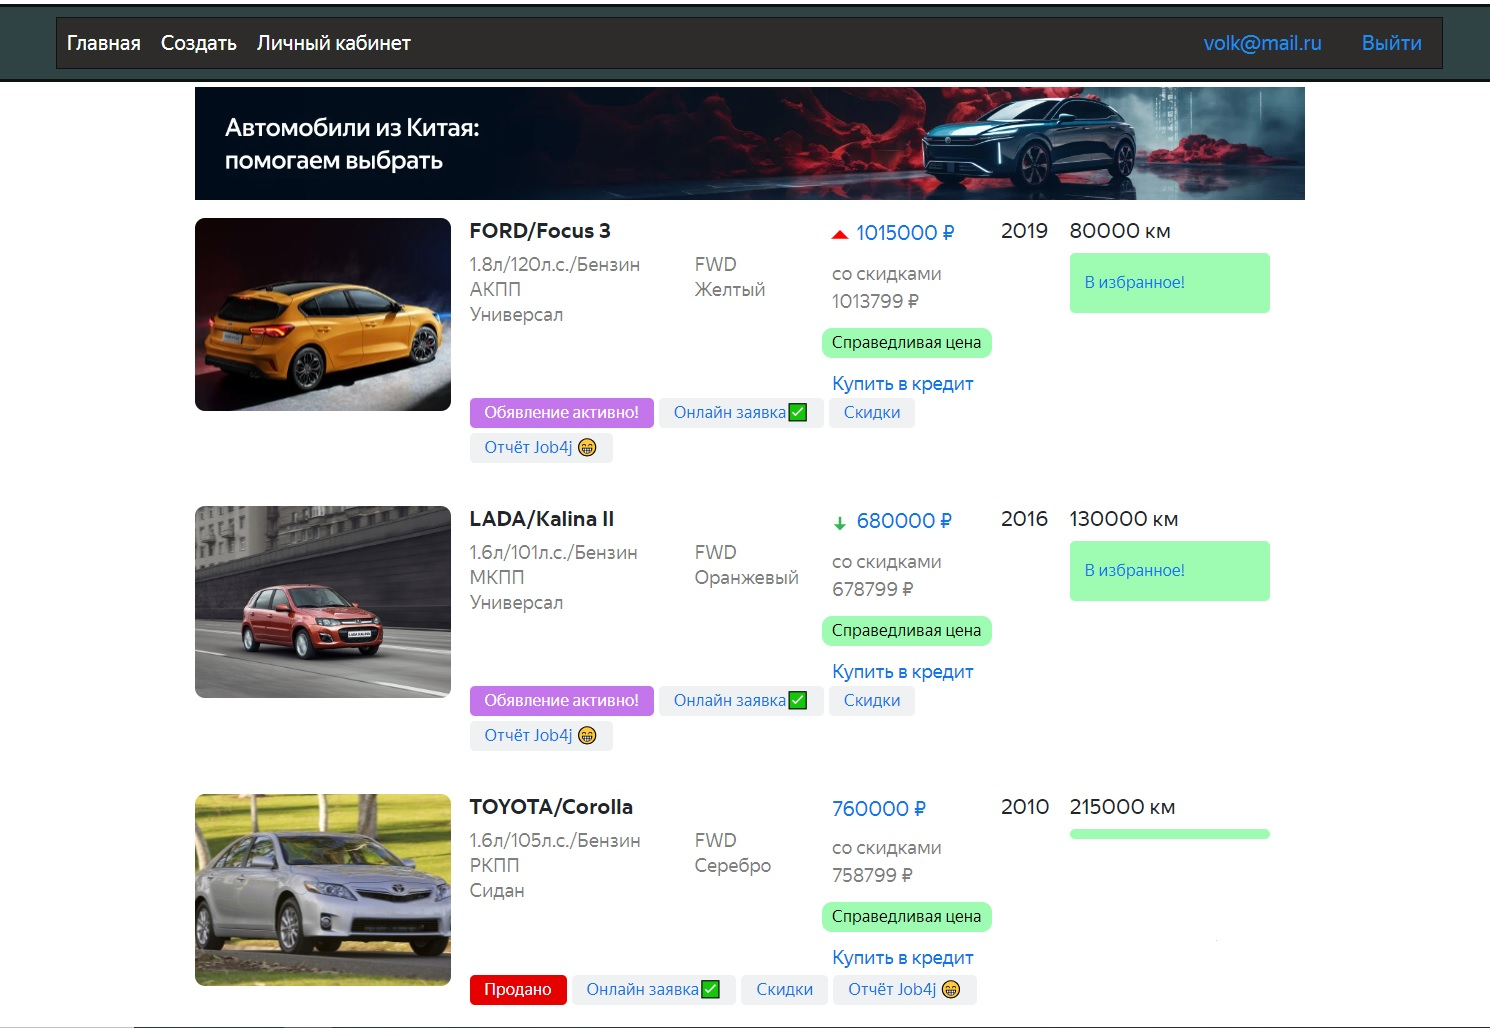
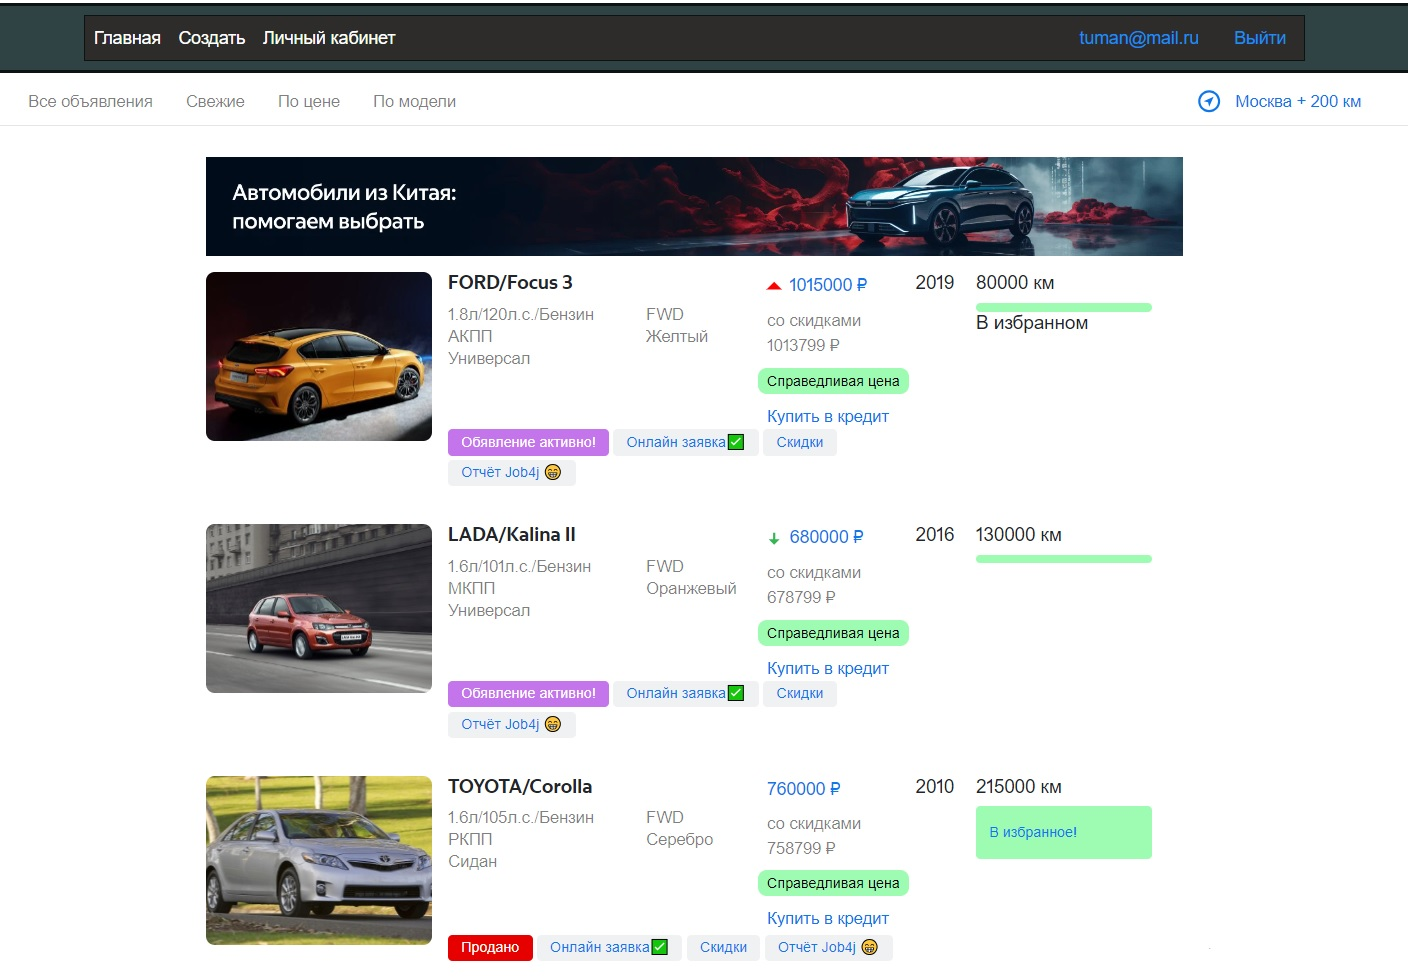
add car model to DB

diff --git a/src/main/resources/templates/index.html b/src/main/resources/templates/index.html
@@ -5,8 +5,7 @@
     <meta name="viewport" content="width=device-width, initial-scale=1">
     <link th:href="@{/css/bootstrap.css}" rel="stylesheet">
     <link th:href="@{/css/job4j.css}" rel="stylesheet">
-    <link th:href="@{/css/myCSS.css}" rel="stylesheet">
-    <script th:src="@{/js/myJS.js}"></script>
+    <script src="https://cdn.jsdelivr.net/npm/bootstrap@5.3.2/dist/js/bootstrap.bundle.min.js"></script>
     <script src="https://cdn.jsdelivr.net/npm/@popperjs/core@2.11.6/dist/umd/popper.min.js"
             integrity="sha384-oBqDVmMz9ATKxIep9tiCxS/Z9fNfEXiDAYTujMAeBAsjFuCZSmKbSSUnQlmh/jp3"
             crossorigin="anonymous"></script>
@@ -34,18 +33,31 @@
                                 <a class="Link ServiceNavigation__link ServiceNavigation__link_name_catalog"
                                    th:href="@{/index}">Все объявления</a>
                                 <a class="Link ServiceNavigation__link ServiceNavigation__link_name_catalog"
-                                   th:href="@{/index/ByToday}">Свежие</a>
-                                <a class="Link ServiceNavigation__link ServiceNavigation__link_name_reviews"
+                                   th:href="@{/index/byToday}">Свежие</a>
+                                <a class="Link ServiceNavigation__link"
                                    href="#" onclick="openForm()">По цене</a>
-                                <div class="form-popup" id="myForm">
-                                    <form class="form-container" th:action="@{/index/price}" method="get">
-                                        <input type="text" placeholder="Не дороже" id="price" name="price" required>
-                                        <button type="submit" class="btn">Выбрать</button>
-                                        <button type="button" class="btn cancel" onclick="closeForm()">Закрыть</button>
-                                    </form>
+                                <a class="Link ServiceNavigation__link" data-bs-toggle="modal" data-bs-target="#myModal"
+                                   href="#">По модели</a>
+                                <div class="modal fade" id="myModal">
+                                    <div class="modal-dialog">
+                                        <div class="modal-content">
+                                            <div class="modal-header">
+                                                <h4 class="modal-title">Выберете модель</h4>
+                                                <button type="button" class="btn-close" data-bs-dismiss="modal"></button>
+                                            </div>
+                                            <div class="modal-body">
+                                                <form class="form-container" th:action="@{/index/model}" method="get">
+                                                    <select type="text" class="form-control" id="tm" name="carModel">
+                                                        <option th:each="model : ${models}" th:value="${model.name}"
+                                                                th:text="${model.name}"></option>
+                                                    </select>
+                                                    <button type="button" class="btn btn-danger" data-bs-dismiss="modal">Close</button>
+                                                    <button type="submit" class="btn btn-primary" data-bs-dismiss="modal">Применить</button>
+                                                </form>
+                                            </div>
+                                        </div>
+                                    </div>
                                 </div>
-                                <a class="Link ServiceNavigation__link ServiceNavigation__link_name_logbook"
-                                   th:href="@{/index/3}">По модели</a>
                             </div>
                         </div>
                         <div class="TopNavigationIndicators TopNavigation__right">

diff --git a/src/main/resources/templates/blocks/modal.html b/src/main/resources/templates/blocks/modal.html
@@ -1,0 +1,29 @@
+<div class="modal fade" id="myModal">
+    <div class="modal-dialog">
+        <div class="modal-content">
+            <!-- Modal Header -->
+            <div class="modal-header">
+                <h4 class="modal-title">Выберете модель</h4>
+                <button type="button" class="btn-close" data-bs-dismiss="modal"></button>
+            </div>
+            <div class="modal-body">
+                <form class="form-container" th:action="@{/index/model}" method="get">
+                    <select type="text" class="form-control" id="tm" name="model">
+                        <option th:each="model : ${models}" th:value="${model.name}"
+                                th:text="${model.name}"></option>
+                    </select>
+                    <button type="button" class="btn btn-danger" data-bs-dismiss="modal">Close</button>
+                    <button type="submit" class="btn btn-primary" data-bs-dismiss="modal">Применить</button>
+                </form>
+            </div>
+        </div>
+    </div>
+</div>
+
+<div class="form-popup" id="myForm">
+    <form class="form-container" th:action="@{/index/price}" method="get">
+        <input type="text" placeholder="Не дороже" id="price" name="price" required>
+        <button type="submit" class="btn">Выбрать</button>
+        <button type="button" class="btn cancel" onclick="closeForm()">Закрыть</button>
+    </form>
+</div>

diff --git a/src/main/resources/templates/post/create.html b/src/main/resources/templates/post/create.html
@@ -23,11 +23,25 @@
         </div>
         <div class="mb-3">
             <label for="title" class="form-label"><b>Марка <span style="color: red;">*</span></b></label>
-            <input type="text" class="form-control" id="title" name="car.brand" placeholder="укажите марку" required>
+            <div class="row">
+                <div class="col">
+                    <input type="text" class="form-control" id="title" name="car.brand" placeholder="укажите марку"
+                           required>
+                </div>
+                <div class="col"></div>
+                <div class="col"></div>
+            </div>
         </div>
         <div class="mb-3">
             <label for="model" class="form-label"><b>Модель <span style="color: red;">*</span></b></label>
-            <input type="text" class="form-control" id="model" name="car.model" placeholder="укажите модель" required>
+            <div class="row">
+                <div class="col">
+                    <input type="text" class="form-control" id="model" name="car.model" placeholder="укажите модель"
+                           required>
+                </div>
+                <div class="col"></div>
+                <div class="col"></div>
+            </div>
         </div>
         <div class="mb-3">
             <label for="tm" class="form-label"><b>Трансмиссия</b></label>

diff --git a/src/main/resources/templates/post/one.html b/src/main/resources/templates/post/one.html
@@ -27,8 +27,8 @@
                  style="display:none"></div>
             <header class="Header Header_theme_default" th:insert="blocks/header :: header"></header>
             <div class="container-fluid">
-                <H3 th:text="${post.car.brand} + ' ' + ${post.car.model} + ' - ' + ${post.car.age} + ' года'"></H3>
-                <div class="ListingItem__main">
+                <H3 th:text="${post.car.brand} + ' ' + ${post.car.model} + ' - ' + ${post.car.age} + ' года'" style="text-align: center"></H3>
+                <div class="ListingItem__main_one">
                     <div class="ListingItem__thumb"><a
                             class="Link OfferThumb OfferThumb_radius_r8"
                             th:href="@{/one/{postId}(postId=${post.id})}"
@@ -129,7 +129,7 @@
                         </div>
                     </div>
                 </div>
-                <div>
+                <div style="width: 65%; margin: auto">
                     <div class="ListingItem__kmAge" th:text="'Описание: ' + ${post.description}"></div>
                 </div>
                 <div th:if="${post.user.equals(user)}" class="col-777">

diff --git a/src/main/resources/static/js/myJS.js b/src/main/resources/static/js/myJS.js
@@ -5,3 +5,11 @@ function openForm() {
 function closeForm() {
     document.getElementById("myForm").style.display = "none";
 }
+
+function openFormModel() {
+    document.getElementById("formModel").style.display = "block";
+}
+
+function closeFormModel() {
+    document.getElementById("formModel").style.display = "none";
+}

diff --git a/src/main/resources/static/css/myCSS.css b/src/main/resources/static/css/myCSS.css
@@ -23,7 +23,10 @@ body {font-family: Arial, Helvetica, sans-serif;}
     right: 15px;
     border: 3px solid #f1f1f1;
     z-index: 9;
+}
 
+.form-popup-model {
+    display: none;
 }
 
 .form-container {

diff --git a/src/main/resources/static/css/job4j.css b/src/main/resources/static/css/job4j.css
@@ -19429,6 +19429,11 @@ body {
     display: flex
 }
 
+.ListingItem__main_one {
+    display: flex;
+    justify-content: center
+}
+
 .ListingItem_hidden {
     cursor: default
 }

diff --git a/src/main/java/ru/job4j/cars/controller/IndexController.java b/src/main/java/ru/job4j/cars/controller/IndexController.java
@@ -3,51 +3,77 @@ package ru.job4j.cars.controller;
 import org.springframework.stereotype.Controller;
 import org.springframework.ui.Model;
 import org.springframework.web.bind.annotation.*;
+import ru.job4j.cars.model.CarModel;
 import ru.job4j.cars.model.Post;
 import ru.job4j.cars.model.User;
+import ru.job4j.cars.repository.CarModelRepository;
 import ru.job4j.cars.repository.PostRepository;
 import ru.job4j.cars.repository.UserRepository;
 import ru.job4j.cars.service.PostService;
 
 import java.util.List;
+import java.util.function.Consumer;
+import java.util.function.Supplier;
 
 @Controller
 @RequestMapping("/index")
 public class IndexController {
     private final PostRepository postRepository;
     private final UserRepository userRepository;
-    private final PostService postService;
+    private final CarModelRepository carModelRepository;
 
-    public IndexController(PostRepository postRepository, UserRepository userRepository, PostService postService) {
+    public IndexController(PostRepository postRepository, UserRepository userRepository,
+                           CarModelRepository carModelRepository) {
         this.postRepository = postRepository;
         this.userRepository = userRepository;
-        this.postService = postService;
+        this.carModelRepository = carModelRepository;
     }
 
     @GetMapping
     public String getIndexPage(Model model, @SessionAttribute User user) {
         User thisUser = userRepository.findById(user.getId()).get();
         List<Post> postList = postRepository.findAll();
+        List<CarModel> modelsList = carModelRepository.findAllCarModel();
         model.addAttribute("thisUser", thisUser);
         model.addAttribute("posts", postList);
+        model.addAttribute("models", modelsList);
         return "index";
     }
 
     @GetMapping("/price")
-    public String sortToPrice(Model model, @SessionAttribute User user, @RequestParam String price) {
-        User thisUser = userRepository.findById(user.getId()).get();
-        List<Post> postList = postRepository.findByMaxPrice(Integer.parseInt(price));
-        model.addAttribute("thisUser", thisUser);
-        model.addAttribute("posts", postList);
-        return "index";
+    public void sortToPrice(@SessionAttribute User user, @RequestParam String price) {
+        sortListCars(() -> postRepository.findByMaxPrice(Integer.parseInt(price)), user);
     }
 
-    @GetMapping("/ByToday")
+    @GetMapping("/byToday")
     public String sortByToday(Model model, @SessionAttribute User user) {
         User thisUser = userRepository.findById(user.getId()).get();
         List<Post> postList = postRepository.findByToday();
+        List<CarModel> modelsList = carModelRepository.findAllCarModel();
         model.addAttribute("thisUser", thisUser);
         model.addAttribute("posts", postList);
+        model.addAttribute("models", modelsList);
+        return "index";
+    }
+
+    @GetMapping("/model")
+    public String sortByModel(Model model, @SessionAttribute User user, @RequestParam String carModel) {
+        User thisUser = userRepository.findById(user.getId()).get();
+        List<Post> postList = postRepository.findByModel(carModel);
+        List<CarModel> modelsList = carModelRepository.findAllCarModel();
+        model.addAttribute("thisUser", thisUser);
+        model.addAttribute("posts", postList);
+        model.addAttribute("models", modelsList);
+        return "index";
+    }
+
+    private String sortListCars(Supplier<List<Post>> posts, User user) {
+        Model model = null;
+        User thisUser = userRepository.findById(user.getId()).get();
+        List<CarModel> modelsList = carModelRepository.findAllCarModel();
+        model.addAttribute("thisUser", thisUser);
+        model.addAttribute("posts", posts);
+        model.addAttribute("models", modelsList);
         return "index";
     }
 }

diff --git a/src/main/java/ru/job4j/cars/repository/CarModelRepository.java b/src/main/java/ru/job4j/cars/repository/CarModelRepository.java
@@ -1,0 +1,21 @@
+package ru.job4j.cars.repository;
+
+import org.springframework.stereotype.Repository;
+import ru.job4j.cars.model.CarModel;
+
+import java.util.List;
+
+@Repository
+public class CarModelRepository {
+    private final CrudRepository crudRepository;
+
+    public CarModelRepository(CrudRepository crudRepository) {
+        this.crudRepository = crudRepository;
+    }
+
+    public List<CarModel> findAllCarModel() {
+        return crudRepository.query(
+                "from CarModel", CarModel.class
+        );
+    }
+}

diff --git a/src/main/java/ru/job4j/cars/model/CarModel.java b/src/main/java/ru/job4j/cars/model/CarModel.java
@@ -1,0 +1,15 @@
+package ru.job4j.cars.model;
+
+import lombok.Data;
+
+import javax.persistence.*;
+
+@Entity
+@Table(name = "car_model")
+@Data
+public class CarModel {
+    @Id
+    @GeneratedValue(strategy = GenerationType.IDENTITY)
+    private int id;
+    private String name;
+}

diff --git a/README.md b/README.md
@@ -19,7 +19,7 @@
 <p>3. Для сборки проекта и запуска миграций в базу данных в корне проекта выполняем команду "mvn install".</p>
 <p>4. Для запуска 
 приложения из консоли выполняем команду "java -jar target/job4j_cars-0.0.1-SNAPSHOT.jar". В браузере приложение будет доступно по адресу
-http://localhost:8083/index (при необходимости смените порт на указанный в application.properties)
+http://localhost:8083/index
 </p>
 <p>5. Если при попытке запуска приложения в консоли появляется ошибка "Web server failed to start. Port 8083 was already in use."
 Вам необходимо в проекте открыть файл src/main/resources/db/liquibase.properties и изменить настройки порта на свободный в параметре "server.port=...."
@@ -35,5 +35,17 @@ http://localhost:8083/index (при необходимости смените п
 <div style="text-align: center;">Оснавная страница, список всех постов. Краткая информация об авто, динамика цены, статус объявления</div>
 
 ![](img/index.jpg)
+
+<div style="text-align: center;">Страница с подробной информацией.</div>
+
+![](img/one.jpg)
+
+<div style="text-align: center;">Страница с подробной информацией для владельца.</div>
+
+![](img/oneOwner.jpg)
+
+<div style="text-align: center;">Личный кабинет.</div>
+
+![](img/lk.jpg)
 
 
